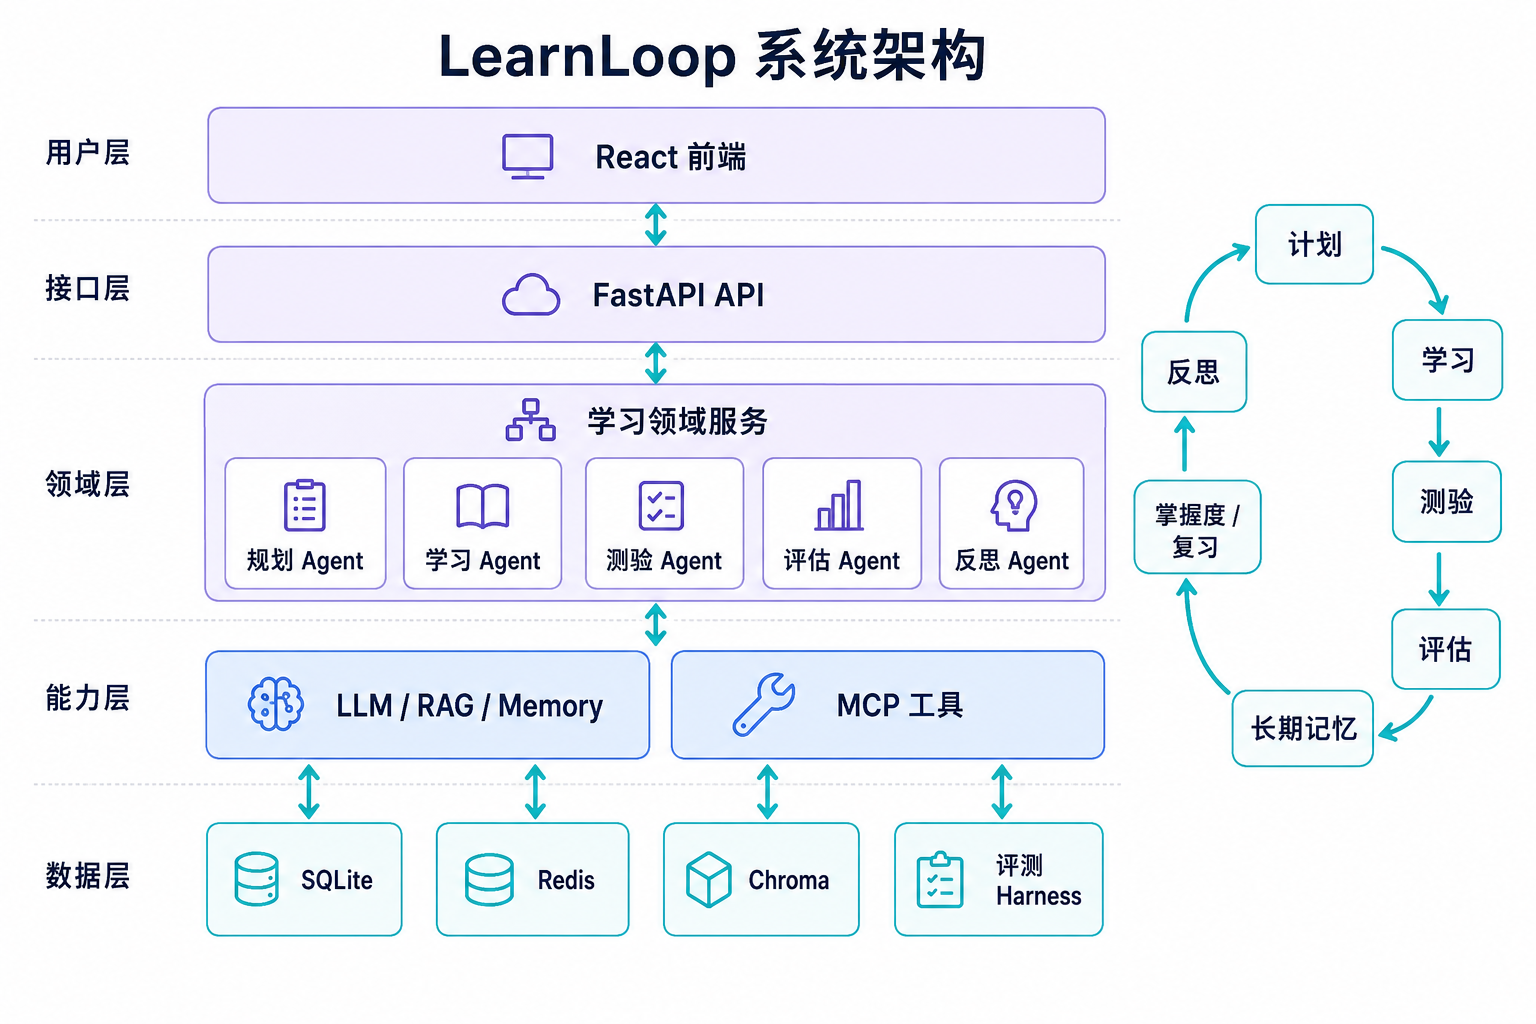
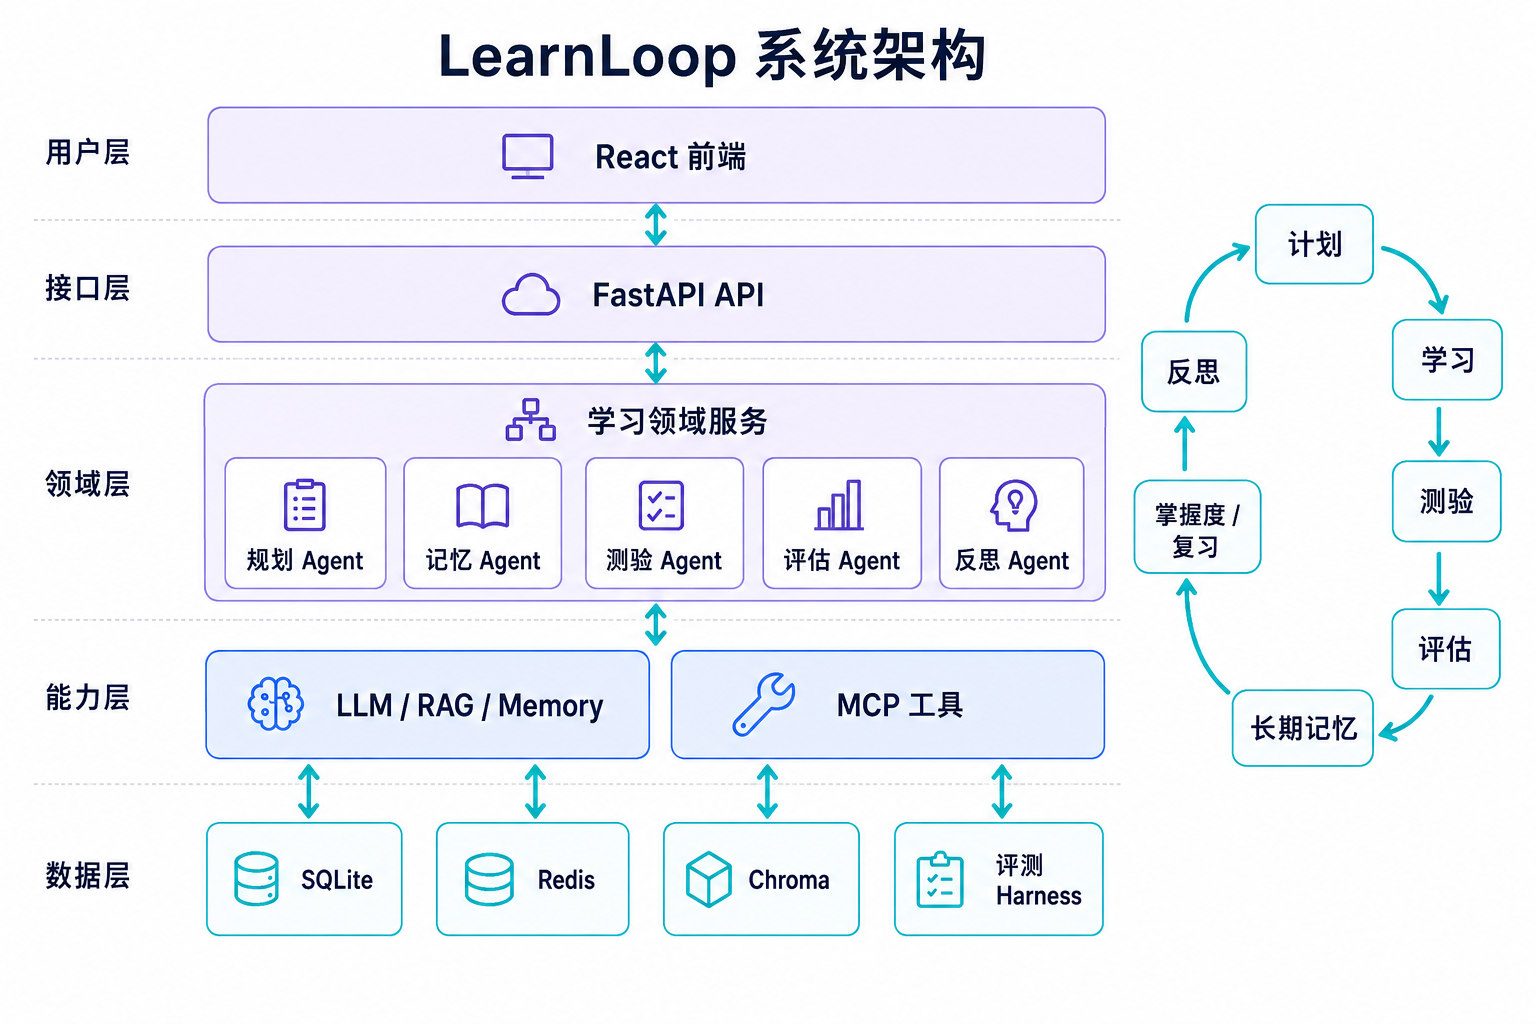
docs: align LearnLoop branding and onboarding

diff --git a/frontend/src/components/layout/AppLayout.tsx b/frontend/src/components/layout/AppLayout.tsx
@@ -20,7 +20,7 @@ export function AppLayout() {
         <div className="mx-auto flex max-w-7xl items-center justify-between gap-6 px-4 py-4 sm:px-6 lg:px-8">
           <NavLink to="/" className="flex items-center gap-3">
             <span className="grid h-9 w-9 place-items-center rounded-xl bg-slate-950 text-sm font-bold text-cyan-300">
-              AC
+              LL
             </span>
             <div>
               <p className="text-sm font-semibold leading-none">LearnLoop</p>

diff --git a/backend/tests/test_branding.py b/backend/tests/test_branding.py
@@ -1,4 +1,7 @@
+from pathlib import Path
 import unittest
+
+from dotenv import dotenv_values
 
 from app.core.config import Settings
 
@@ -6,3 +9,9 @@ from app.core.config import Settings
 class BrandingTests(unittest.TestCase):
     def test_default_application_name_is_learnloop(self) -> None:
         self.assertEqual(Settings().app_name, "LearnLoop API")
+
+    def test_env_template_uses_learnloop_database(self) -> None:
+        project_root = Path(__file__).resolve().parents[2]
+        values = dotenv_values(project_root / "backend" / ".env.example")
+
+        self.assertEqual(values["DATABASE_URL"], "sqlite:///./learnloop.db")

diff --git a/docs/superpowers/plans/2026-09-05-learnloop-visual-assets-replacement.md b/docs/superpowers/plans/2026-09-05-learnloop-visual-assets-replacement.md
@@ -4,15 +4,15 @@
 
 **Goal:** Replace the two legacy README visual assets with a user-selected LearnLoop UI and a project-accurate architecture diagram, then publish the verified result.
 
-**Architecture:** Keep the existing README image links unchanged: `UI.png` remains the product-interface asset and `LearnLoop.png` remains the system architecture asset. Edit the selected UI screenshot only enough to replace its old `AC` badge with a LearnLoop `LL` mark; use the approved generated architecture diagram because its layers map to the repository's frontend, API, domain Agent, capability, and data components.
+**Architecture:** Keep the existing README image links unchanged: `UI.png` remains the product-interface asset and `LearnLoop.png` remains the system architecture asset. Edit the selected UI screenshot only enough to replace its previous badge with a LearnLoop `LL` mark; use the approved generated architecture diagram because its layers map to the repository's frontend, API, domain Agent, capability, and data components.
 
 **Tech Stack:** PNG assets, README Markdown, GitHub Actions-independent local validation, Git/GitHub.
 
 ## Global Constraints
 
 - Preserve the existing README paths `./UI.png` and `./LearnLoop.png`; do not change prose or links unless validation shows an incorrect reference.
-- The UI must retain the user-selected dashboard composition while replacing the `AC` monogram with `LL`.
-- Neither asset may contain `AgentCoach`, an `AC` monogram, API keys, watermarks, QR codes, or third-party company logos.
+- The UI must retain the user-selected dashboard composition while replacing the previous monogram with `LL`.
+- Neither asset may contain former-project branding, API keys, watermarks, QR codes, or third-party company logos.
 - The architecture must represent React, FastAPI, five domain Agents, LLM/RAG/Memory, MCP tools, SQLite, Redis, Chroma, and the evaluation Harness.
 - Do not push either binary asset until the user has approved the previews.
 
@@ -32,13 +32,13 @@
 
 Run: open `C:\Users\LEE_LA~1\AppData\Local\Temp\codex-clipboard-201fed15-01a2-4a5f-9f2e-d9f626315188.png` with the image viewer.
 
-Expected: the top-left brand reads `LearnLoop` and the only legacy visual identity is the dark rounded `AC` badge.
+Expected: the top-left brand reads `LearnLoop` and the only previous visual identity is a dark rounded badge.
 
 - [ ] **Step 2: Generate an image edit that changes only the legacy mark**
 
-Use image generation with the screenshot as the reference and this instruction: `Keep this dashboard screenshot pixel-faithful. Replace only the dark rounded top-left AC badge with a matching dark rounded LL badge, rendered in cyan. Keep LearnLoop, every navigation label, card, chart, typography, layout, and all other pixels unchanged. Do not add a watermark or logo.`
+Use image generation with the screenshot as the reference and this instruction: `Keep this dashboard screenshot pixel-faithful. Replace only the dark rounded top-left badge with a matching dark rounded LL badge, rendered in cyan. Keep LearnLoop, every navigation label, card, chart, typography, layout, and all other pixels unchanged. Do not add a watermark or logo.`
 
-Expected: a preview with `LL`, not `AC`, and no unintended content changes.
+Expected: a preview with `LL` and no unintended content changes.
 
 - [ ] **Step 3: Obtain user approval before replacement**
 

diff --git a/CONTRIBUTING.md b/CONTRIBUTING.md
@@ -1,0 +1,26 @@
+# 贡献指南
+
+感谢你关注 LearnLoop。提交前请先阅读以下边界，避免破坏学习闭环、数据隔离或可审计性。
+
+## 提交问题
+
+请说明预期行为、实际行为、复现步骤、运行环境和相关截图或日志。不要在问题单中粘贴 API Key、访问令牌、完整 Memory 内容或未脱敏的学习数据。
+
+## 提交改动
+
+1. 保持 React 前端、FastAPI API、领域服务与 Agent 层的职责边界。
+2. 涉及 API、数据模型、Agent 行为或 Memory MCP 工具时，补充对应测试和 README 说明。
+3. 不要将接口密钥、数据库、向量数据、构建产物或用户学习资料提交到仓库。
+4. 提交前运行以下检查：
+
+```powershell
+cd backend
+python -m unittest discover -s tests -v
+
+cd ../frontend
+npm run build
+```
+
+## 许可证与行为准则
+
+当前仓库尚未声明开源许可证。提交代码前，请确保你拥有贡献内容的权利；在正式添加 `LICENSE` 前，不要假设代码可被再分发或商用。

diff --git a/docs/superpowers/specs/2026-09-05-learnloop-visual-assets-design.md b/docs/superpowers/specs/2026-09-05-learnloop-visual-assets-design.md
@@ -11,7 +11,7 @@ Replace the legacy README screenshots with two original LearnLoop visual assets 
 - Style: dark navy background, blue-to-purple gradients, restrained cyan success accents, rounded cards, clean sans-serif typography.
 - Required content: LearnLoop wordmark; daily learning loop headline; task progress; knowledge mastery; due-review reminder; a RAG learning card; a compact weekly activity summary.
 - Text: Chinese UI labels, with English retained only for concise technical labels such as `RAG`.
-- Constraints: no `AgentCoach`, no `AC` monogram, no old navigation wording, no watermark, no fake personal data, and no overflowing or unreadable text.
+- Constraints: no former-project name or monogram, no outdated navigation wording, no watermark, no fake personal data, and no overflowing or unreadable text.
 
 ## Asset 2: System architecture
 

diff --git a/docs/superpowers/plans/2026-09-04-learnloop-readme-rewrite.md b/docs/superpowers/plans/2026-09-04-learnloop-readme-rewrite.md
@@ -75,7 +75,7 @@ $required = '为什么选择 LearnLoop','核心工作流','快速开始','配置
 $content = Get-Content -Raw README.md
 $missing = $required | Where-Object { $content -notmatch [regex]::Escape($_) }
 if ($missing) { throw "Missing headings: $($missing -join ', ')" }
-if ($content -match 'AgentCoach|agreeable-forest|gentlefield') { throw 'Legacy branding or deployment URL found.' }
+if ($content -match 'former_project_name|agreeable-forest|gentlefield') { throw 'Legacy branding or deployment URL found.' }
 if (-not (Test-Path UI.png) -or -not (Test-Path LearnLoop.png)) { throw 'README image asset missing.' }
 ```
 

diff --git a/docs/superpowers/specs/2026-09-04-learnloop-readme-design.md b/docs/superpowers/specs/2026-09-04-learnloop-readme-design.md
@@ -31,6 +31,6 @@ Replace the report-style README with a developer-friendly open-source product pa
 ## Verification
 
 - Markdown image paths resolve to `UI.png` and `LearnLoop.png`.
-- README contains no `AgentCoach` or prior deployment URLs.
+- README contains no former-project name or prior deployment URLs.
 - Backend branding test and frontend production build continue to pass.
 - The rewritten README is committed and pushed to `main`.
